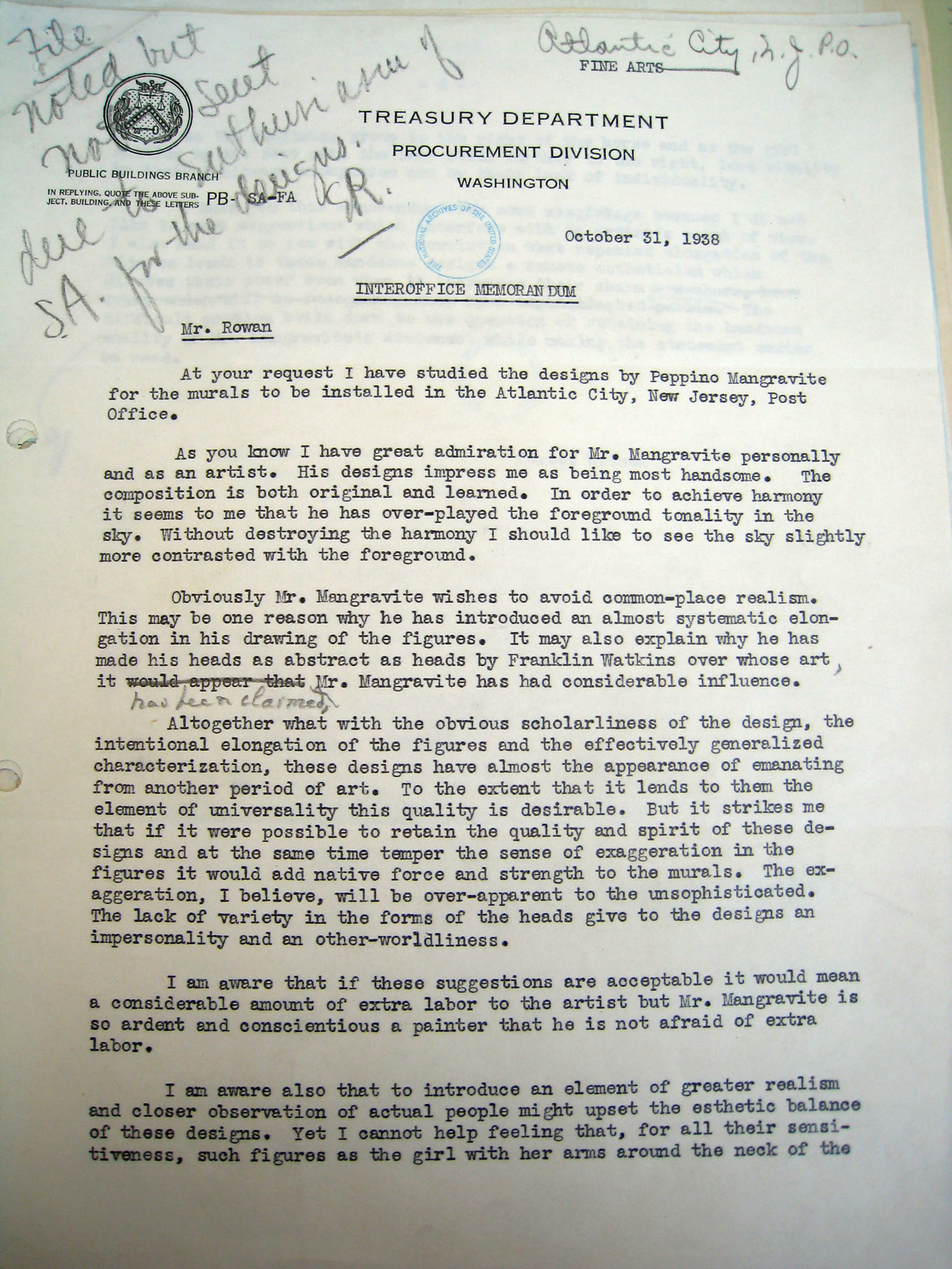
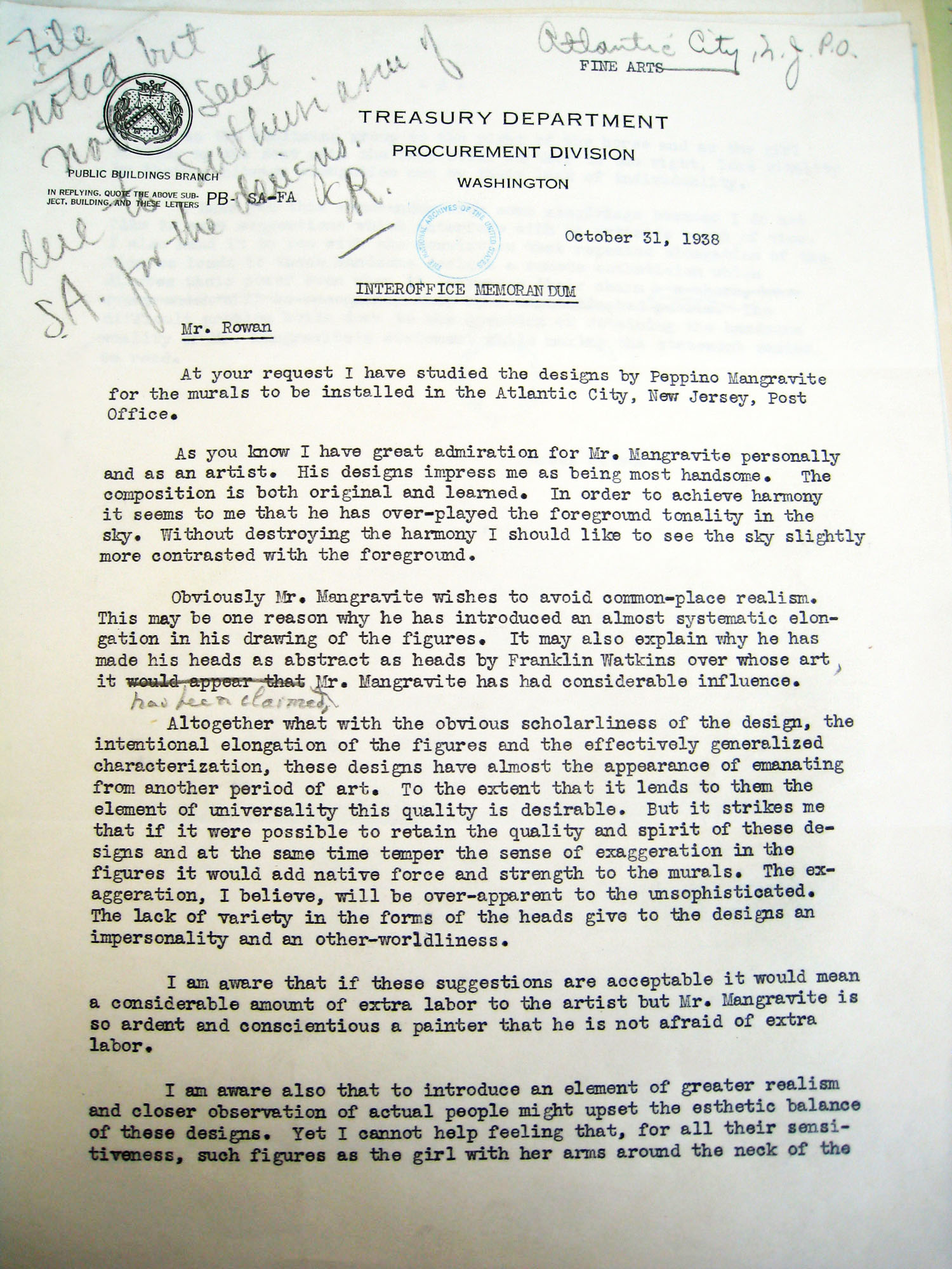
AC letter scroll?

diff --git a/Mangravite/pages/acity.html b/Mangravite/pages/acity.html
@@ -33,8 +33,7 @@ header {
 <div class="photos">
 <a href="http://wasahockey.github.io/Mangravite/images/family.jpg" rel="lightbox" title="Family"><img src="http://wasahockey.github.io/Mangravite/images/family.jpg"></a>
 <p>Atlantic City, NJ Post Office “Family” – oil on canvas</p>
-<a href="http://wasahockey.github.io/Mangravite/images/AtlCity1.jpg"" rel="lightbox" title="Atlantic City, NJ Post Office “Youth” – oil on canvas, Peppino Mangravite (1939) Images courtesy of the USPS<br>
-<p>Photographs taken by Ira Youtie."><img src="http://wasahockey.github.io/Mangravite/images/AtlCity1.jpg"></a>
+<a href="http://wasahockey.github.io/Mangravite/images/AtlCity1.jpg"" rel="lightbox" title="Atlantic City, NJ Post Office “Youth” – oil on canvas, Peppino Mangravite (1939) Images courtesy of the USPS<br>Photographs taken by Ira Youtie."><img src="http://wasahockey.github.io/Mangravite/images/AtlCity1.jpg"></a>
 <p>Atlantic City, NJ Post Office “Youth” – oil on canvas, Peppino Mangravite (1939) Images courtesy of the USPS</p>
 <p>Photographs taken by Ira Youtie.</p>
 
@@ -43,8 +42,7 @@ header {
 <h1>Atlantic City, New Jersey</h1>
 <p>In contrast to the rich history Hempstead, New York had for Mangravite to work from, Atlantic City was a relatively new city with a history, and there is no record of letters suggesting mural topics for this commission and in contrast to the accuracy he looked to capture for Hempstead, his Atlantic City murals show little connection to the community. Even so it was an image that both the locals and the tourists understood could connect with the city.</p><p>Just as he had with Hempstead, Mangravite painted two panels for the Atlantic City post office; Youth and Family Recreation. Together the panels depict more than 130 figures participating in a range of seaside activities.<sup><a href="#acity1" id="fn1" title="see footnote">1</a></sup> The Section mural descriptions do their best to capture all the activity,</p><blockquote>“Youth: This composite design depicts young people enjoying the recreational activities of Atlantic City. At the left a vender sells flowers and fruits to sun bathers while others play hand ball. In the center foreground a chess game progresses and behind this is a pavilion with roller-skaters. On the wall of the building is a poster of "Miss America" and on the roof are shuffle-board players. To the right, on the terrace of a cafe, several couples are dancing a square dance while an orchestra plays on a roof above.”</blockquote><blockquote>“Family Recreation: This composite design depicts children and their parents enjoying the recreational activities of Atlantic City. Children are rolling hoops and riding ponies. In the center background is a merry-go-round and in the foreground a family group relaxes peacefully. At the right children play a game of blind-man's bluff while a mother tends to her young daughter and a husband adjusts the visor of a beach chair for his wife. Adult groups enjoy the sun decks of the roofs and in the marine background are sailboats.”<sup><a href="#acity2" id="fn2" title="see footnote">2</a></sup></blockquote>
 <p>To illustrate the frantic pace of the resort Mangravite filled the frame with activities, each seeming to stack on top of another towards the high set horizon. Even the glimpses of the ocean beyond the sand include handfuls of boats with white sails. The figures are all activity spending their time by the sea, even the families relaxing in the sand are in conversation or doing other activities. The buildings, patches of sand and promenade further the feeling of a hectic pace as they all blend together. Their edges only partially defined as they disappear behind the next activity in the scene. This resort imagery is missing the roller chairs, Atlantic City’s distinct boardwalk pattern, the lighted signs, the shops and exotic boutiques and numerous iconic buildings which made up the unique nature of Atlantic City.<sup><a href="#acity3" id="fn3" title="see footnote">3</a></sup> In all the action displayed, only one element connects the two seaside scenes to Atlantic City, the poster for Miss America.</p><p>What Mangravite depicted was the busy, carefree image of middle-class America enjoying a vacation at the shore before the Depression. It taps into the period of time when Atlantic City was the “Queen of Resorts.” The murals along with the recently revived Miss America fits perfectly here as a part of the economic success the city experienced in the 1920s.</p>
-<div class="insert"><img src="http://wasahockey.github.io/Mangravite/images/AC letter 1.jpg">
-<p>Letter to Edward Rowan This document is in the collection of the National Achieves at College Park (NACP), College Park, MD, in Record Group 121 (Records of Federal Works Agency. Public Buildings Administration. Section of Fine Arts. (1939 - 1949) (Most Recent)Department of the Treasury. Procurement Division. Public Buildings Branch. (06/10/1933 - 07/01/1939) (Predecessor), Correspondence of Officials, Compiled 1934 - 1943), Inventory Entry 133 (Section Case Files NH - NJ), Box 66.</p>
+<div class="insert"><a href="http://wasahockey.github.io/Mangravite/images/AC letter 1.jpg" rel="lightbox[ac]" title="Letter to Edward Rowan on the style Mangravite used in the depiction. This document is in the collection of the National Achieves at College Park (NACP), College Park, MD, in Record Group 121 (Records of Federal Works Agency. Public Buildings Administration. Section of Fine Arts. (1939 - 1949) (Most Recent)Department of the Treasury. Procurement Division. Public Buildings Branch. (06/10/1933 - 07/01/1939) (Predecessor), Correspondence of Officials, Compiled 1934 - 1943), Inventory Entry 133 (Section Case Files NH - NJ), Box 66."><a href="http://wasahockey.github.io/Mangravite/images/AC letter 2.jpg" rel="lightbox[ac]" title="Letter to Edward Rowan on the style Mangravite used in the depiction. This document is in the collection of the National Achieves at College Park (NACP), College Park, MD, in Record Group 121 (Records of Federal Works Agency. Public Buildings Administration. Section of Fine Arts. (1939 - 1949) (Most Recent)Department of the Treasury. Procurement Division. Public Buildings Branch. (06/10/1933 - 07/01/1939) (Predecessor), Correspondence of Officials, Compiled 1934 - 1943), Inventory Entry 133 (Section Case Files NH - NJ), Box 66."><img src="http://wasahockey.github.io/Mangravite/images/AC letter 1.jpg"></a><p>Letter to Edward Rowan on the style Mangravite used in the depiction. This document is in the collection of the National Achieves at College Park (NACP), College Park, MD, in Record Group 121 (Records of Federal Works Agency. Public Buildings Administration. Section of Fine Arts. (1939 - 1949) (Most Recent)Department of the Treasury. Procurement Division. Public Buildings Branch. (06/10/1933 - 07/01/1939) (Predecessor), Correspondence of Officials, Compiled 1934 - 1943), Inventory Entry 133 (Section Case Files NH - NJ), Box 66.</p>
 </div>
 <p>After the mural was installed the Atlantic City Press wrote</p><blockquote>“Mangravite said that his hope was to capture the conviviality and enjoyment of people vacationing in a resort like Atlantic City. He has purposely avoided the vulgarities usually found in human forms depicted in murals, preferring to achieve the finer elements which people, no matter their station, constantly strive to reach.”</blockquote>
 <p>It is important to note that the article quotes Mangravite as saying LIKE Atlantic City. By painting the generic resort Mangravite could erase the signs, lights, billboards and commercialism, illustrating the resort image that tourists told their families and friends about. What remained was the middle-class American enjoying the leisure time he was rewarded for his labor. While the tourist looking at the mural would have seen the resort family-friendly idea, the locals would be reminded of the idea that anyone could make it big on the boardwalk. The people of Atlantic City saw the enjoyment in the murals and as Mangravite installed the two scenes people stopped to talk with him. He passed these messages on to Rowan in a letter, "one colored woman wanted to know what chapter of the bible the murals represented" another patrons comment led him to suspect that "probably he will complain to Hitler about the murals, on the grounds that the American people have no right to be so happy and have so much freedom and good times." Rowan wrote back that it was "quite remarkable, and reflects the joy that you have caught in the work."<sup><a href="#acity4" id="fn4" title="see footnote">4</a></sup></p>
